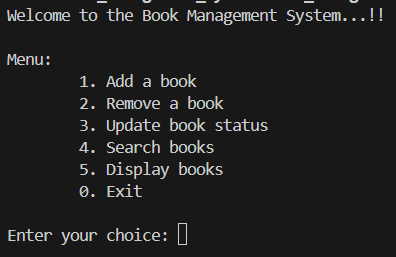
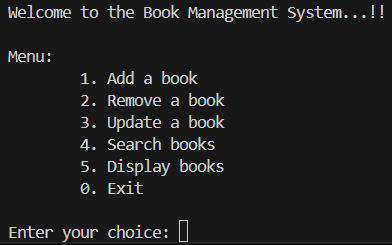
Update toString() method and updateBook()

diff --git a/bin/book_management_system.dart b/bin/book_management_system.dart
@@ -44,7 +44,7 @@ class Book {
 
   @override
   String toString() {
-    return 'Book{Title: $title, Author: $author, ISBN: $isbn, Status: $status}';
+    return '\nBook\n Title: $title\n Author: $author\n ISBN: $isbn\n Status: $status\n';
   }
 }
 
@@ -77,7 +77,7 @@ class TextBook extends Book {
 
   @override
   String toString() {
-    return 'TextBook{Title: $title, Author: $author, ISBN: $isbn, Subject Area: $_subjectArea, Grade Level: $_gradeLevel, Status: $status}';
+    return 'TextBook\n Title: $title\n Author: $author\n ISBN: $isbn\n Subject Area: $_subjectArea\n Grade Level: $_gradeLevel\n Status: $status\n';
   }
 }
 
@@ -276,6 +276,13 @@ void updateBook(BookCollection collection) {
 
     if (bookToUpdate is TextBook) {
       stdout.write("Updating TextBook. Current details:\n$bookToUpdate\n");
+
+      String currentTitle = bookToUpdate.title;
+      String currentAuthor = bookToUpdate.author;
+      String currentISBN = bookToUpdate.isbn;
+      String currentSubjectArea = bookToUpdate.subjectArea;
+      int currentGradeLevel = bookToUpdate.gradeLevel;
+
       while (true) {
         stdout.write("Enter new title (or press Enter to keep the current): ");
         String newTitle = stdin.readLineSync() ?? '';
@@ -283,7 +290,8 @@ void updateBook(BookCollection collection) {
           bookToUpdate.title = newTitle;
           break;
         } else {
-          print("Title cannot be empty. Please enter again.");
+          bookToUpdate.title = currentTitle;
+          break;
         }
       }
 
@@ -294,7 +302,8 @@ void updateBook(BookCollection collection) {
           bookToUpdate.author = newAuthor;
           break;
         } else {
-          print("Author name cannot be empty. Please enter again.");
+          bookToUpdate.author = currentAuthor;
+          break;
         }
       }
 
@@ -305,7 +314,8 @@ void updateBook(BookCollection collection) {
           bookToUpdate.isbn = newISBN;
           break;
         } else {
-          print("ISBN cannot be empty. Please enter again.");
+          bookToUpdate.isbn = currentISBN;
+          break;
         }
       }
 
@@ -317,7 +327,8 @@ void updateBook(BookCollection collection) {
           bookToUpdate.subjectArea = newSubjectArea;
           break;
         } else {
-          print("Subject area cannot be empty. Please enter again.");
+          bookToUpdate.subjectArea = currentSubjectArea;
+          break;
         }
       }
 
@@ -336,43 +347,12 @@ void updateBook(BookCollection collection) {
                 "Invalid grade level. Please enter a value between 1 and 12.");
           }
         } else {
+          bookToUpdate.gradeLevel = currentGradeLevel;
           break;
         }
       }
     } else {
       stdout.write("Updating Book. Current details:\n$bookToUpdate\n");
-      while (true) {
-        stdout.write("Enter new title (or press Enter to keep the current): ");
-        String newTitle = stdin.readLineSync() ?? '';
-        if (newTitle.isNotEmpty) {
-          bookToUpdate.title = newTitle;
-          break;
-        } else {
-          print("Title cannot be empty. Please enter again.");
-        }
-      }
-
-      while (true) {
-        stdout.write("Enter new author (or press Enter to keep the current): ");
-        String newAuthor = stdin.readLineSync() ?? '';
-        if (newAuthor.isNotEmpty) {
-          bookToUpdate.author = newAuthor;
-          break;
-        } else {
-          print("Author name cannot be empty. Please enter again.");
-        }
-      }
-
-      while (true) {
-        stdout.write("Enter new ISBN (or press Enter to keep the current): ");
-        String newISBN = stdin.readLineSync() ?? '';
-        if (newISBN.isNotEmpty) {
-          bookToUpdate.isbn = newISBN;
-          break;
-        } else {
-          print("ISBN cannot be empty. Please enter again.");
-        }
-      }
     }
 
     stdout.write("Update status? (current: ${bookToUpdate.status}, yes/no): ");
